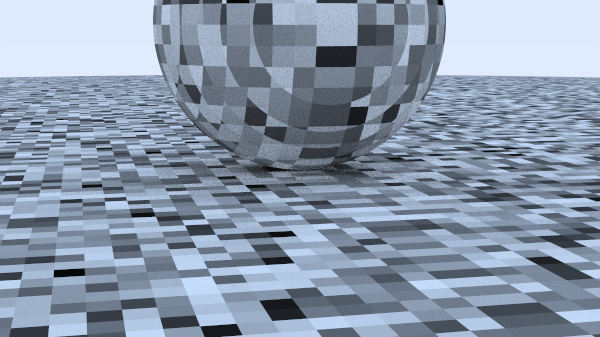
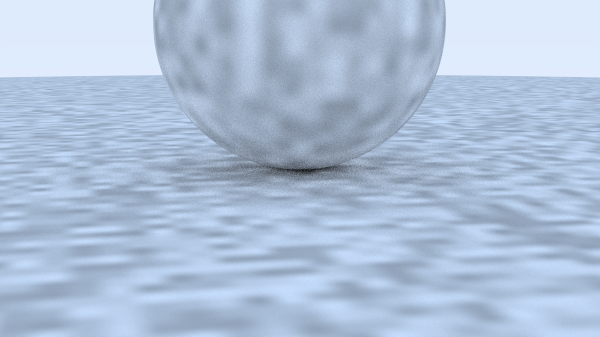
Impl perlin with trilinear + hermitian smoothing.

diff --git a/src/headers/base/perlin.h b/src/headers/base/perlin.h
@@ -23,11 +23,33 @@ public:
 
     double genNoise(const PointVec3& p) const
     {
-        int i = static_cast<int>(4 * p.getX()) & 255;
-        int j = static_cast<int>(4 * p.getY()) & 255;
-        int k = static_cast<int>(4 * p.getZ()) & 255;
+        double u = p.getX() - std::floor(p.getX());
+        double v = p.getY() - std::floor(p.getY());
+        double w = p.getZ() - std::floor(p.getZ());
 
-        return randomFloat[permXArr[i] ^ permYArr[j] ^ permZArr[k]];
+        // Hermitian Smoothing.
+        u = u * u * (3 - (2 * u));
+        v = v * v * (3 - (2 * v));
+        w = w * w * (3 - (2 * w));
+
+        int i = static_cast<int>(std::floor(p.getX()));
+        int j = static_cast<int>(std::floor(p.getY()));
+        int k = static_cast<int>(std::floor(p.getZ()));
+
+        double c[2][2][2];
+
+        for (int di{ 0 }; di < 2; di++)
+        {
+            for (int dj{ 0 }; dj < 2; dj++)
+            {
+                for (int dk{ 0 }; dk < 2; dk++)
+                {
+                    c[di][dj][dk] = randomFloat[permXArr[(i + di) & 255] ^ permYArr[(j + dj) & 255] ^ permZArr[(k + dk) & 255]];
+                }
+            }
+        }
+
+        return genTrilinearInterpolation(c, u, v, w);
     }
 
 private:
@@ -59,5 +81,23 @@ private:
             intArrToShuffle[i] = intArrToShuffle[target];
             intArrToShuffle[target] = temp;
         }
+    }
+
+    static double genTrilinearInterpolation(double c[2][2][2], double u, double v, double w)
+    {
+        float accum = 0.f;
+
+        for (int i{ 0 }; i < 2; i++)
+        {
+            for (int j{ 0 }; j < 2; j++)
+            {
+                for (int k{ 0 }; k < 2; k++)
+                {
+                    accum += (((i * u) + (1 - i) * (1 - u)) * ((j * v) + (1 - j) * (1 - v)) * ((k * w) + (1 - k) * (1 - w)) * c[i][j][k]);
+                }
+            }
+        }
+
+        return accum;
     }
 };

diff --git a/src/main.cpp b/src/main.cpp
@@ -111,7 +111,7 @@ static void render_perlin_RTTNW()
 	// World
 	WorldObjectList primaryWOL;
 
-	std::shared_ptr<TNoise> perlinNoiseTex = std::make_shared<TNoise>();
+	std::shared_ptr<TNoise> perlinNoiseTex = std::make_shared<TNoise>(4);
 
 	primaryWOL.addToWorld(std::make_shared<WOSphere>(PointVec3(0, -1000, 0), 1000, std::make_shared<MLambertian>(perlinNoiseTex)));
 	primaryWOL.addToWorld(std::make_shared<WOSphere>(PointVec3(0, 2, 0), 2, std::make_shared<MLambertian>(perlinNoiseTex)));

diff --git a/src/headers/textures/noise.h b/src/headers/textures/noise.h
@@ -4,10 +4,13 @@ class TNoise : public Texture {
 public:
     TNoise() {}
 
+    TNoise(double scaleF) : noiseScaleFac(scaleF) {}
+
     ColorVec3 getTexColorAtCoords(double u, double v, const PointVec3& p) const override {
-        return ColorVec3(1) * perlinNoise.genNoise(p);
+        return ColorVec3(1) * 0.5f * (1.f + perlinNoise.genNoise(noiseScaleFac * p));
     }
 
 private:
     UPerlin perlinNoise;
+    double noiseScaleFac{ 5 };
 };
